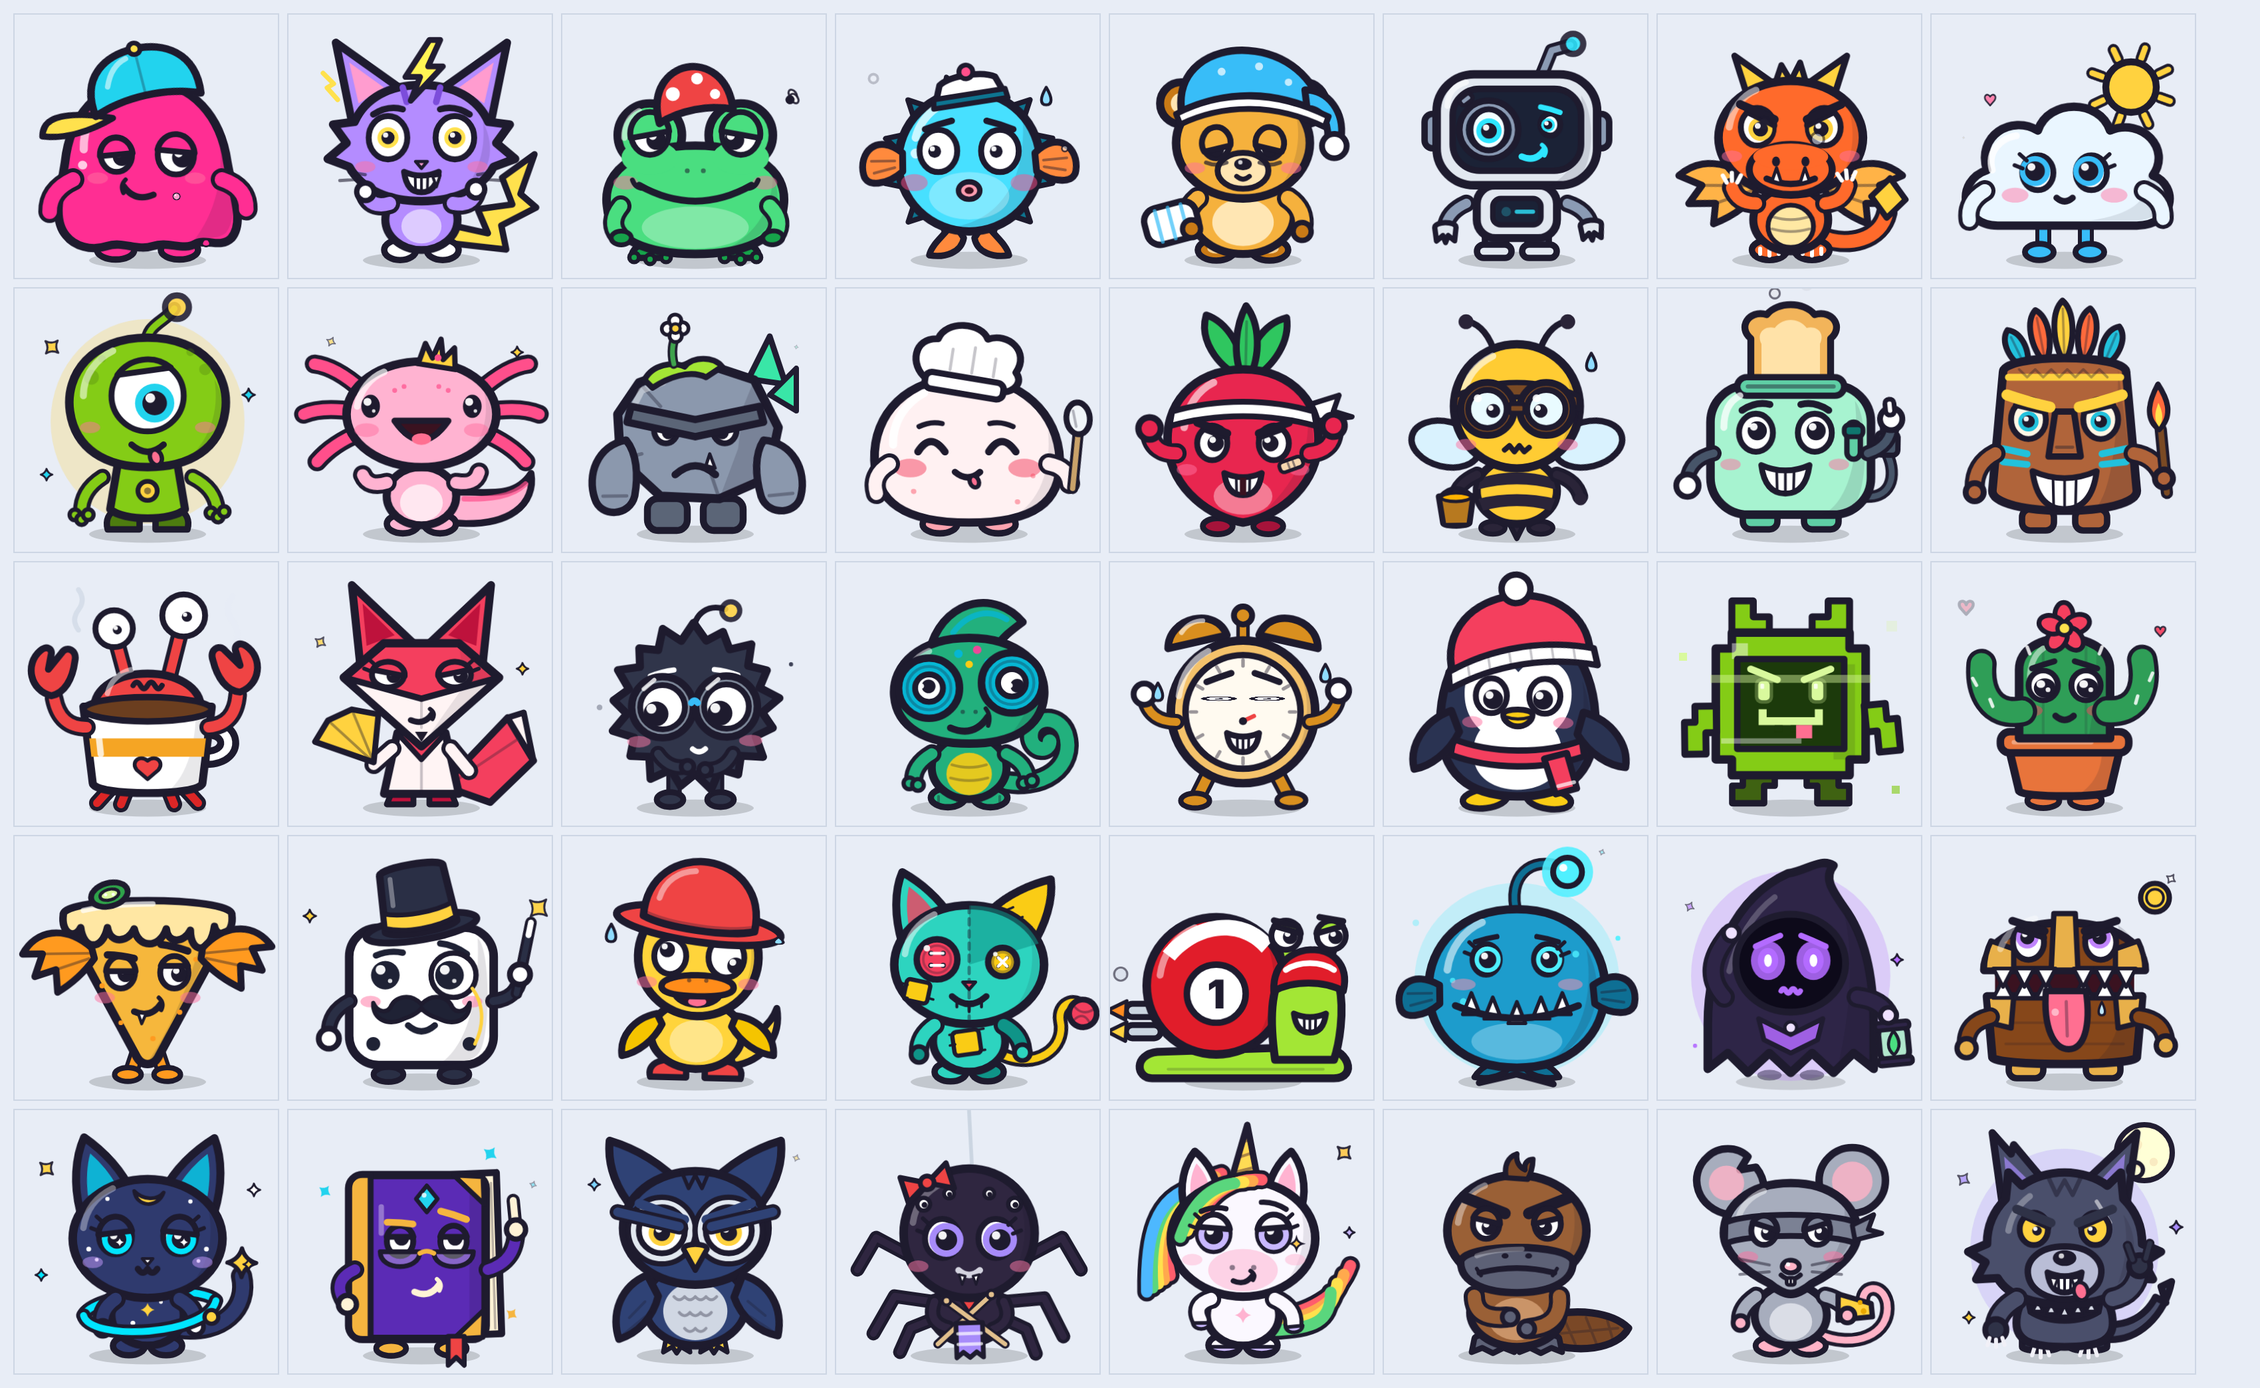
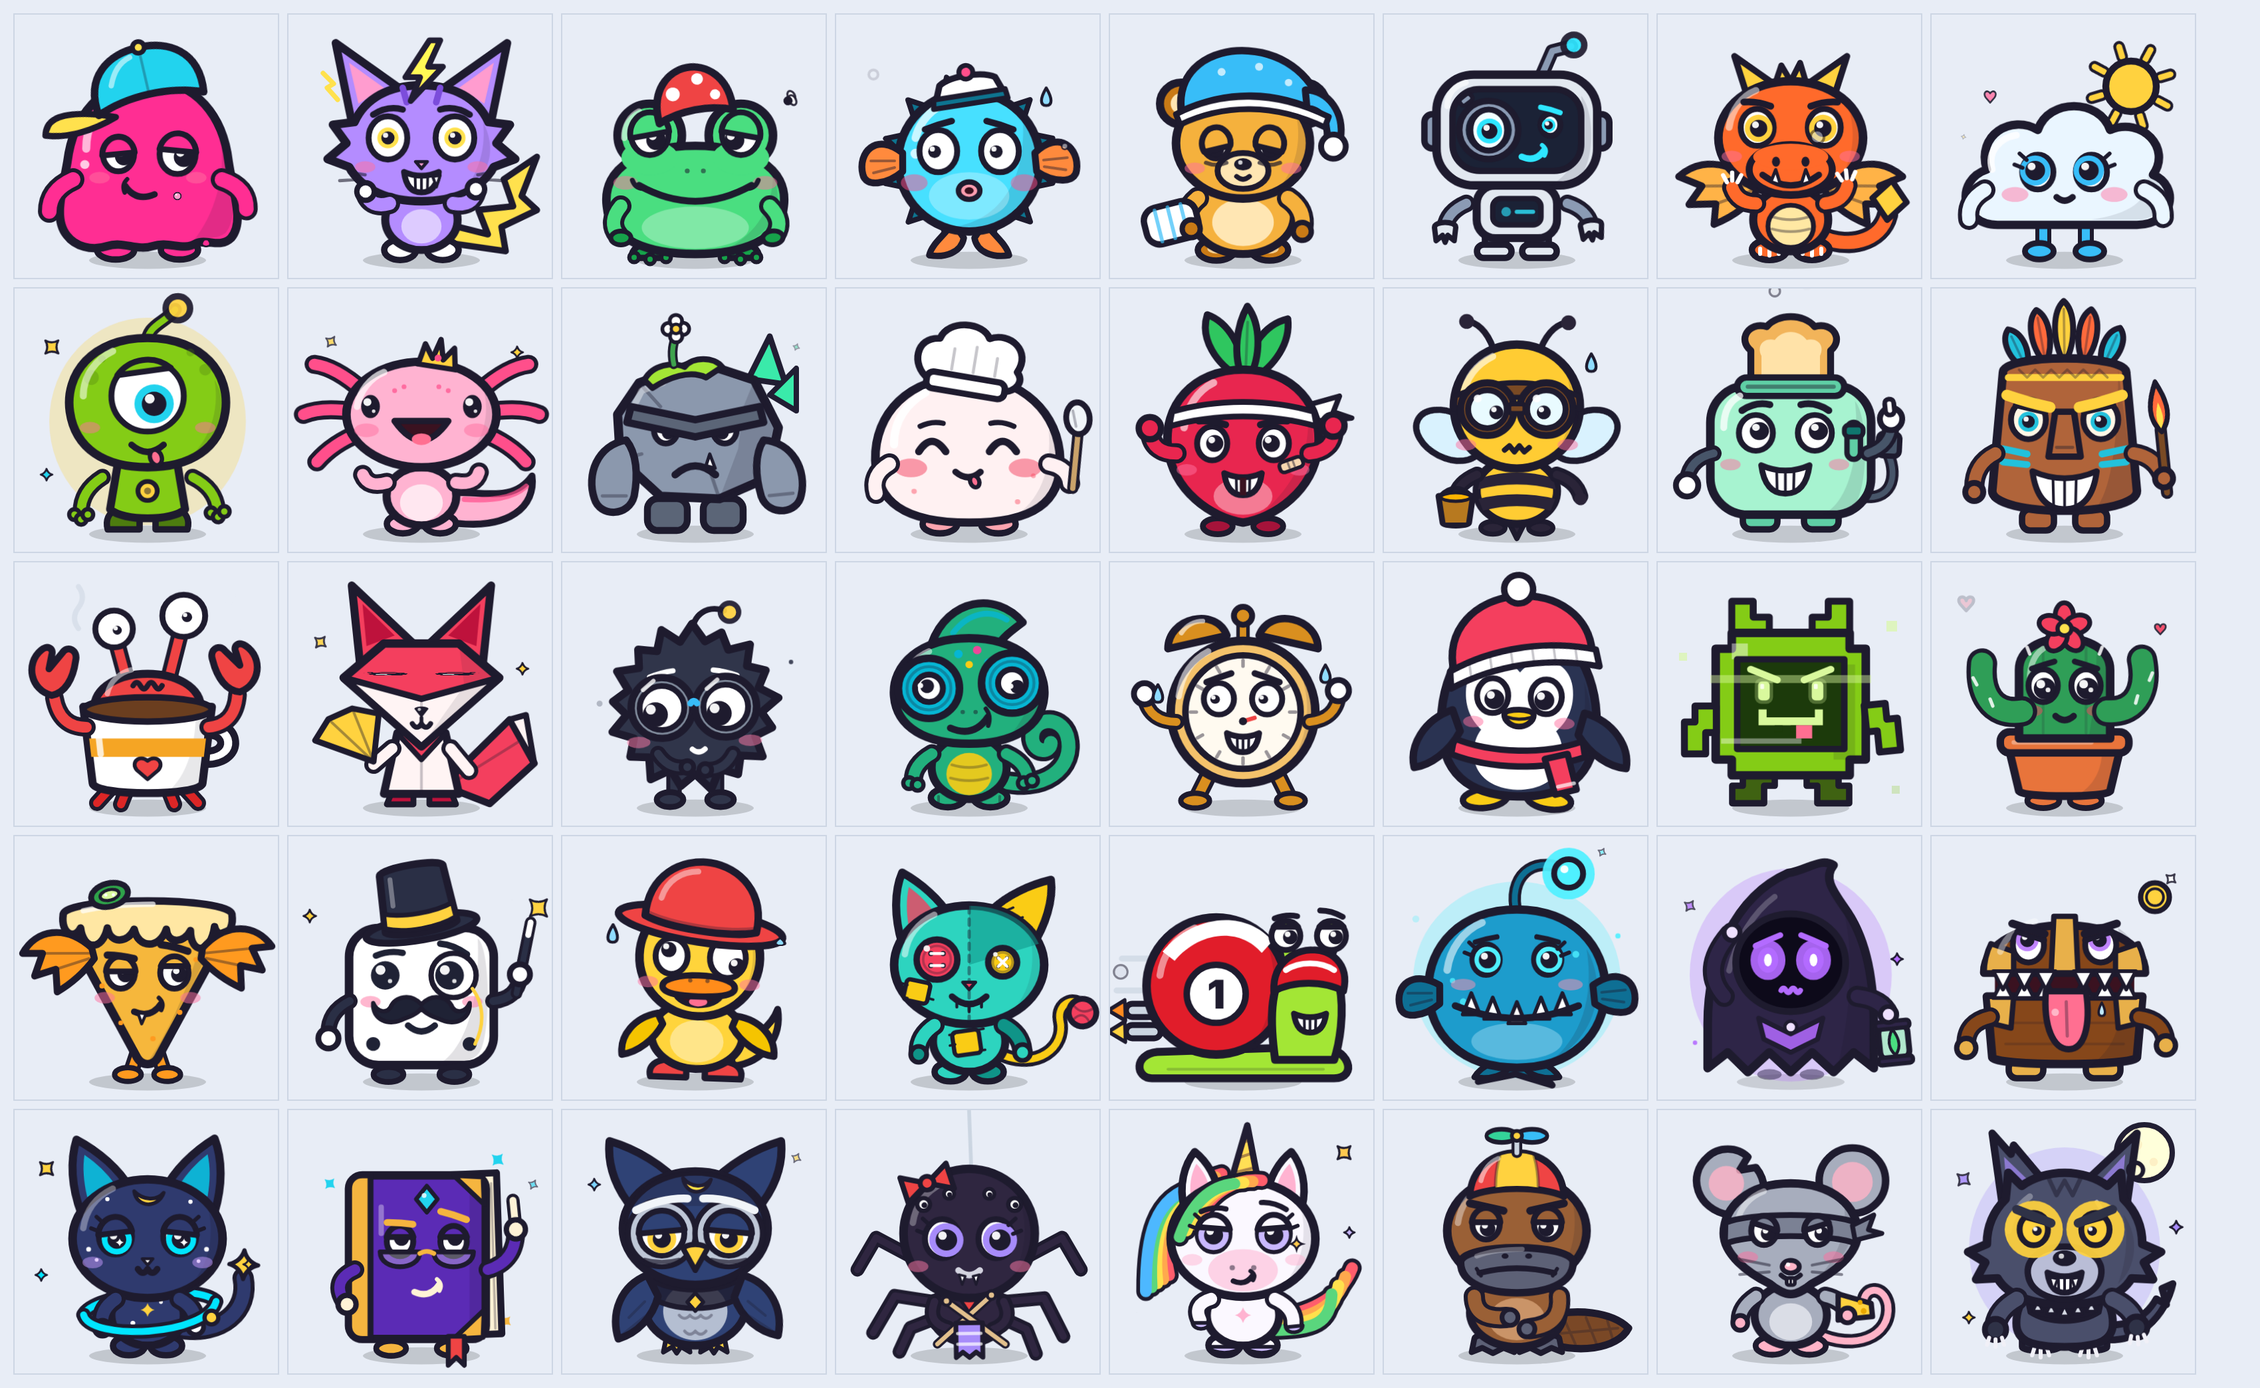
Wesen Fassung 3: Rückmeldung eingearbeitet
Chompy, Sprout und Turbo schauen freundlicher (keine schrägen Lider, weichere
Brauen). Mimi mit Nase und Katzenmund. Zephyr düster und weise statt streng
(schwere Lider, lange helle Brauen, Mondsichel, dunkler Kragen). Howl ohne
Handzeichen und Zunge, Augen glühen. Plato mit Propellermütze, Blick weicher.

Claude-Session: https://claude.ai/code/session_01SoWN1nY31SGRMZYCRPugZ3

diff --git a/MPSkills/tools/KnowledgeStack/wesen-neu/wesen-3.js b/MPSkills/tools/KnowledgeStack/wesen-neu/wesen-3.js
@@ -118,25 +118,27 @@
   const wing34 = 'M 32 62 C 22 66 18 76 21 86 C 28 84 34 78 36 70 Z';
   const beak34 = P('M 45.6 52 C 45.6 49.6 54.4 49.6 54.4 52 L 50 60 Z', c2, 2);
   W.add(34, {
-    typ: 'Die Strenge', spruch: 'Hat alles gesehen. Ist von wenig beeindruckt.',
+    typ: 'Die Weise', spruch: 'Schweigt lange. Sagt dann einen Satz, der sitzt.',
     vars: '--fx:var(--c2)',
     o: { al: [32, 64], ar: [68, 64], ll: [43, 86], lr: [57, 86], head: [50, 64] },
     legL: P('M 39 86 L 47 86 L 48 91 L 44.6 89 L 43 91.4 L 41.4 89 L 38 91 Z', c2, 1.8),
     legR: P(mirror('M 39 86 L 47 86 L 48 91 L 44.6 89 L 43 91.4 L 41.4 89 L 38 91 Z'), c2, 1.8),
     body: E(50, 73, 19, 15.5, c1, 3)
-      + G('fo', null, E(50, 75.5, 12, 11, c3, 0, 'opacity=".9"')
-        + L('M 42 70 q 2 2.4 4 0 q 2 2.4 4 0 q 2 2.4 4 0 q 2 2.4 4 0 M 44 76 q 2 2.4 4 0 q 2 2.4 4 0 q 2 2.4 4 0 M 46 82 q 2 2.4 4 0 q 2 2.4 4 0', INK, 1.1, 'opacity=".35"')),
+      + G('fo', null, E(50, 75.5, 12, 11, c3, 0, 'opacity=".75"')
+        + L('M 44 77 q 2 2.4 4 0 q 2 2.4 4 0 q 2 2.4 4 0 M 46 83 q 2 2.4 4 0 q 2 2.4 4 0', INK, 1.1, 'opacity=".35"')
+        + P('M 32.6 62.6 C 40 69 60 69 67.4 62.6 L 67 69.6 C 60 76 40 76 33 69.6 Z', '#1e1b2e', 2, 'fill-opacity=".8"') + P('M 50 68.6 L 53 72 L 50 75.4 L 47 72 Z', c2, 1.4)),
     head: G('ear-l', [30, 32], P(tuft34, c1, 3)) + G('ear-r', [70, 32], P(mirror(tuft34), c1, 3))
       + E(50, 44, 27, 21.5, c1, 3.2)
       + shade('M 72 34 C 80 44 77 58 64 64 C 72 57 75 46 72 34 Z', 0.18)
-      + G('fo', null, C(37.5, 45, 12.6, c3, 2) + C(62.5, 45, 12.6, c3, 2)
-        + P('M 45 23 L 47.5 29 L 50 24 L 52.5 29 L 55 23', 'none', 1.4))
-      + gesicht({ x: [37.5, 62.5], y: 45, r: 8.6, ex: 1, p: 0.36, iris: c2, lid: [0.34, 14], look: [0, 0.1], lookc: 'lk-slow',
-          brow: { dy: -1.4, a: 20, l: 8.4, w: 3.6, c: c1, k: -0.4 }, blush: false, mx: 50, my: 55,
+      + shade('M 23.6 42 C 25 29 37 22.6 50 22.6 C 63 22.6 75 29 76.4 42 C 68 33.5 32 33.5 23.6 42 Z', 0.26)
+      + G('fo', null, C(37.5, 46, 12.6, c3, 2, 'fill-opacity=".8"') + C(62.5, 46, 12.6, c3, 2, 'fill-opacity=".8"')
+        + P('M 45.4 25 C 46.4 31.8 54 31.8 55.8 25.6 C 53.4 28.8 48.6 28.8 45.4 25 Z', c2, 1.4, 'class="glow-soft"'))
+      + gesicht({ x: [37.5, 62.5], y: 46, r: 8.4, ex: 1, p: 0.4, iris: c2, lid: [0.46, -5], look: [0, 0.25], lookc: 'lk-slow', bags: INK,
+          brow: { dy: 2.6, a: -13, l: 9.6, w: 3, c: '#f1f5f9', k: 2.6 }, blush: false, mx: 50, my: 55,
           mouths: { normal: beak34, sleep: beak34, sad: beak34,
             open: P('M 46 55 L 54 55 L 50 62.5 Z', MOUTH, 1.6) + P('M 45.6 52 C 45.6 49.6 54.4 49.6 54.4 52 L 50 56.6 Z', c2, 2),
             wow: P('M 46 55 L 54 55 L 50 62.5 Z', MOUTH, 1.6) + P('M 45.6 52 C 45.6 49.6 54.4 49.6 54.4 52 L 50 56.6 Z', c2, 2) } })
-      + G('fo', null, L('M 21 38 L 44 43.5 M 79 38 L 56 43.5', INK, 6) + L('M 21 38 L 44 43.5 M 79 38 L 56 43.5', c1, 3.4)),
+,
     back: L('M 40 36 q 2.5 3 5 0 q 2.5 3 5 0 q 2.5 3 5 0 q 2.5 3 5 0 M 42 46 q 2.6 3 5.2 0 q 2.6 3 5.2 0 q 2.6 3 5.2 0', INK, 1.2, 'opacity=".3"'),
     armL: P(wing34, c1, 2.8) + L('M 25 78 L 31 72 M 23 84 L 33 76', INK, 1, 'opacity=".3"'),
     armR: P(mirror(wing34), c1, 2.8) + L(mirror('M 25 78 L 31 72 M 23 84 L 33 76'), INK, 1, 'opacity=".3"'),
@@ -206,7 +208,7 @@
     + shine('M 35 54.6 C 40 52.6 46 52 52 52', 1.8, 0.3)
     + E(45.6, 54.6, 1.3, 1, INK, 0) + E(54.4, 54.6, 1.3, 1, INK, 0) + mouth;
   W.add(37, {
-    typ: 'Der Miesepeter', spruch: 'Findet alles doof. Kommt trotzdem jedes Mal.',
+    typ: 'Der Miesepeter', spruch: 'Findet alles doof. Außer seine Propellermütze.',
     o: { al: [34, 70], ar: [66, 70], ll: [41, 86], lr: [59, 86], head: [50, 68] },
     behind: G('tail', [62, 82], P('M 60 78 C 72 74 86 76 92 82 C 88 90 72 92 60 87 Z', c4, 2.8)
       + L('M 68 79 L 72 88 M 76 78 L 80 88 M 84 79 L 86 86 M 66 84 L 88 82', INK, 1, 'opacity=".3"')),
@@ -216,10 +218,15 @@
     head: E(50, 45, 26, 21, c1, 3.2)
       + shade('M 71 35 C 78 45 75 58 63 64 C 70 57 73 46 71 35 Z', 0.14)
       + shine('M 28 42 C 29 35 33 30 38 28', 2.4, 0.4)
-      + P('M 46 25 C 45 20 47 17 50 16 C 49.6 19 51 21 53 22 C 52.6 19.6 54 18 56 18 C 56 21 55 24 54 25.6 Z', c4, 2)
-      + gesicht({ x: [38.5, 61.5], y: 42.5, r: 5.6, p: 0.5, lid: [0.4, 12], look: [[0.2, 0.25], [-0.2, 0.25]], lookc: 'lk-slow',
+      + G('hat', [50, 30], P('M 32.4 32 C 33 20.6 41.6 15.4 50 15.4 C 58.4 15.4 67 20.6 67.6 32 C 60 28 40 28 32.4 32 Z', '#ef4444', 2.6)
+        + P('M 43.6 16.6 C 46.6 15.2 53.4 15.2 56.4 16.6 C 57.6 20.6 58 24.6 58 28.6 C 53 27.8 47 27.8 42 28.6 C 42 24.6 42.4 20.6 43.6 16.6 Z', '#ffd23f', 0)
+        + L('M 43.6 16.6 C 42.4 20.6 42 24.6 42 28.6 M 56.4 16.6 C 57.6 20.6 58 24.6 58 28.6', INK, 1.2, 'opacity=".4"')
+        + shine('M 36.6 26 C 37.6 21.6 40 19 43 17.6', 1.8, 0.5)
+        + L('M 50 15.4 L 50 9.6', INK, 4) + L('M 50 15.4 L 50 9.6', '#cbd5e1', 1.8)
+        + G('q-prop', [50, 9], E(43, 9, 7, 2.5, '#38bdf8', 1.8) + E(57, 9, 7, 2.5, '#34d399', 1.8)) + C(50, 9, 1.9, '#ffd23f', 1.4))
+      + gesicht({ x: [38.5, 61.5], y: 42.5, r: 5.8, p: 0.5, lid: [0.44, 0], look: [[0.1, 0.3], [-0.1, 0.3]], lookc: 'lk-slow',
           blush: false, mx: 50, my: 60,
-          pre: G('brow', null, L('M 30.5 32.5 L 45.5 38.5 M 69.5 32.5 L 54.5 38.5', INK, 4.4)),
+          pre: G('brow', null, L('M 32.5 34.6 L 45 37.4 M 67.5 34.6 L 55 37.4', INK, 3)),
           mouths: { normal: bill37(L('M 36 61 Q 50 57.4 64 61', INK, 2.2) + L('M 35 59.4 L 36.6 62 M 65 59.4 L 63.4 62', INK, 1.4)),
             open: P('M 37 62 C 38 72 62 72 63 62 Z', MOUTH, 2.2) + E(50, 67.4, 5, 2.2, TONGUE, 0) + bill37(''),
             sad: bill37(L('M 37 62.4 Q 50 57 63 62.4', INK, 2.2)),
@@ -262,7 +269,7 @@
     + 'C 71 70 61 73 50 73 C 39 73 29 70 25 63 L 17 63.4 L 20.4 57 L 14 53 L 21 50 C 21 44 23 38 28 33 L 29 23 L 34 28 C 38 25 44 23 50 23 Z';
   const krallen = (x, y) => L('M ' + (x - 2.4) + ' ' + y + ' l -.8 2.6 M ' + x + ' ' + (y + 0.6) + ' l 0 2.8 M ' + (x + 2.4) + ' ' + y + ' l .8 2.6', '#f1f0f7', 1.5);
   W.add(39, {
-    typ: 'Der Rocker', spruch: 'Heult den Mond an. Trifft keinen einzigen Ton.',
+    typ: 'Der Heuler', spruch: 'Heult den Mond an. Trifft keinen einzigen Ton.',
     vars: '--fx:var(--c3)',
     o: { al: [32, 71], ar: [68, 71], ll: [41, 86], lr: [59, 86], head: [50, 72], zz: [8, 44], cl: [20, 12] },
     behind: E(50, 52, 35, 37, c3, 0, 'class="pulse"')
@@ -283,14 +290,14 @@
       + G('fo', null, P('M 50 51 C 60 51 64.6 56.6 63.6 62 C 62.6 68 56 71 50 71 C 44 71 37.4 68 36.4 62 C 35.4 56.6 40 51 50 51 Z', c6, 2.4)
         + E(50, 55.4, 4.4, 3, INK, 0) + hl(48.8, 54.6, 1, 0.8)
         + L('M 62 34 L 67 42', '#fff', 1.5, 'opacity=".55"'))
-      + gesicht({ x: [38.5, 61.5], y: 44.5, r: 6, sc: 'var(--c2)', p: 0.3, lid: [0.26, 22], look: [[0.2, 0.1], [-0.2, 0.1]], lookc: 'lk-lr',
+      + gesicht({ x: [38.5, 61.5], y: 44.5, r: 6, sc: 'var(--c2)', p: 0.3, lid: [0.2, 14], look: [[0.2, 0.1], [-0.2, 0.1]], lookc: 'lk-lr',
           brow: { dy: -1, a: 22, l: 6.4, w: 3.4, c: c5, k: 0 }, blush: false,
           m: 'grin', mx: 50, my: 62.4, mw: 6.4, teeth: true,
-          post: G('not-sad not-sleep', null, P('M 44.4 62.6 L 45.8 67.6 L 47.4 63.2 Z', '#fff', 1) + P('M 52.6 63.2 L 54.2 67.6 L 55.6 62.6 Z', '#fff', 1)
-            + E(55.6, 68, 2.6, 3.4, TONGUE, 1.4, 'transform="rotate(-14 55.6 66)"')) }),
+          post: G('not-sad not-sleep', null, P('M 44.4 62.6 L 45.8 67.6 L 47.4 63.2 Z', '#fff', 1) + P('M 52.6 63.2 L 54.2 67.6 L 55.6 62.6 Z', '#fff', 1)) ,
+          pre: G('eo', null, C(38.5, 44.5, 10, c2, 0, 'opacity=".4" class="glow"') + C(61.5, 44.5, 10, c2, 0, 'opacity=".4" class="glow"')) }),
     back: L('M 36 41 L 42 47 M 50 37 L 50 47 M 64 41 L 58 47', c5, 2, 'opacity=".6"'),
     armL: tube('M 32 71 Q 25 75 24 81', c1, 5.5) + C(24, 82.5, 4, c5, 2.2) + krallen(24, 85.6),
-    armR: tube('M 68 71 Q 77 70 79 61', c1, 5.5) + C(79.4, 59.6, 4, c5, 2.2) + L('M 77 57 L 75.6 51.6 M 82 57 L 84 51.6', INK, 3.6) + L('M 77 57 L 75.6 51.6 M 82 57 L 84 51.6', c5, 1.8),
+    armR: tube('M 68 71 Q 75 75 76 81', c1, 5.5) + C(76, 82.5, 4, c5, 2.2) + krallen(76, 85.6),
     fx: tw(12, 26, 3, c3, 0.2) + tw(92, 44, 2.4, c3, 1.1) + tw(14, 78, 2.2, c2, 1.7)
       + '<text class="note only-cheer" x="12" y="18" font-size="12">♪</text>'
   });

diff --git a/MPSkills/tools/KnowledgeStack/wesen-neu/wesen-0.js b/MPSkills/tools/KnowledgeStack/wesen-neu/wesen-0.js
@@ -183,7 +183,7 @@
   /* ── 6 Chompy · kleiner Drache ───────────────────────────── */
   const wing6 = 'M 37 64 C 28 52 17 51 9 56 L 17 61 L 11 67 L 21 68.5 L 19 76 C 28 74 35 70 37 66 Z';
   W.add(6, {
-    typ: 'Der Möchtegern-Gefährliche', spruch: 'ROOAAR! … War das gruselig? Bitte sag ja.',
+    typ: 'Der Möchtegern-Gefährliche', spruch: 'Rooaar! … War das gruselig? Ein bisschen?',
     vars: '--fx:var(--c3)',
     o: { al: [37, 71], ar: [63, 71], ll: [42, 86], lr: [58, 86], head: [50, 68] },
     behind: G('wing-l', [37, 65], P(wing6, c4, 2.6) + L('M 35 64 L 17 61 M 35 66 L 21 68.5', INK, 1.1, 'opacity=".4"'))
@@ -199,11 +199,11 @@
       + shine('M 27 42 C 28 35 32 30 37 28', 2.6, 0.5)
       + G('fo', null, E(50, 58, 15.5, 9.5, c1, 2.6) + E(50, 53.2, 14, 5, c1, 0)
         + E(44.5, 55, 1.5, 1.9, INK, 0) + E(55.5, 55, 1.5, 1.9, INK, 0))
-      + gesicht({ x: [37.5, 62.5], y: 42, r: 7, iris: c3, p: 0.4, lid: [0.26, 24], look: [[0.25, 0.1], [-0.25, 0.1]],
-          brow: { dy: -1.2, a: 24, l: 6.4, w: 3.2, k: 0 }, bx: [28, 72], by: 53,
+      + gesicht({ x: [37.5, 62.5], y: 42, r: 7, iris: c3, p: 0.46, look: [[0.2, 0.05], [-0.2, 0.05]], lookc: 'lk-lr',
+          brow: { dy: 1.8, a: 9, l: 5, w: 2.6, k: 1.2 }, bx: [28, 72], by: 53,
           mx: 50, my: 61.5, mw: 7, teeth: true,
-          mouths: { normal: L('M 41 61.5 Q 50 65.5 59 61.5', INK, 2.4)
-            + P('M 43 62.4 L 44.7 57.4 L 46.6 63.4 Z', '#fff', 1.2) + P('M 53.4 63.4 L 55.3 57.4 L 57 62.4 Z', '#fff', 1.2) } }),
+          mouths: { normal: L('M 39.5 60 Q 50 68 60.5 60', INK, 2.4)
+            + P('M 42.6 62.6 L 44.4 58 L 46.2 63.8 Z', '#fff', 1.2) + P('M 53.8 63.8 L 55.6 58 L 57.4 62.6 Z', '#fff', 1.2) } }),
     back: P('M 46 36 L 50 30 L 54 36 Z M 46 46 L 50 40 L 54 46 Z M 46 56 L 50 50 L 54 56 Z', c3, 1.6),
     armL: tube('M 37 71 Q 30 71 28 65', c1, 4.6) + L('M 26 63 l -1.4 -2.6 M 28 62.4 l 0 -3 M 30 63 l 1.4 -2.6', '#fff', 1.6),
     armR: tube('M 63 71 Q 70 71 72 65', c1, 4.6) + L('M 70 63 l -1.4 -2.6 M 72 62.4 l 0 -3 M 74 63 l 1.4 -2.6', '#fff', 1.6),

diff --git a/MPSkills/tools/KnowledgeStack/wesen-neu/wesen-1.js b/MPSkills/tools/KnowledgeStack/wesen-neu/wesen-1.js
@@ -69,8 +69,8 @@
       + E(50, 78, 11, 7, c2, 0, 'opacity=".5" class="fo"')
       + shine('M 28 52 C 29 44 33 38 39 35', 2.8, 0.6)
       + G('fo', null, P('M 23.5 46 C 40 41 60 41 76.5 46 L 77.5 51.5 C 60 46.5 40 46.5 22.5 51.5 Z', '#fff', 2.2))
-      + gesicht({ x: [38.5, 61.5], y: 58, r: 6.4, p: 0.48, lid: [0.2, 18], look: [[0.2, 0], [-0.2, 0]],
-          brow: { dy: -0.6, a: 20, l: 5.6, w: 3, k: 0 }, bx: [29, 71], by: 68,
+      + gesicht({ x: [38.5, 61.5], y: 58, r: 6.4, p: 0.5, look: [[0.15, 0], [-0.15, 0]], lookc: 'lk-lr',
+          brow: { dy: 1.4, a: 8, l: 5, w: 2.6, k: 1 }, bx: [29, 71], by: 68,
           m: 'grin', mx: 50, my: 71, mw: 7, teeth: true,
           extra: '<g transform="rotate(-20 68 66)">' + R(63.5, 64, 9, 4, 1.6, '#f6d7b0', 1.4) + L('M 67 65 L 67 67 M 69 65 L 69 67', INK, 0.8, 'opacity=".5"') + '</g>',
           post: R(48.8, 71, 2.4, 6.6, 0, MOUTH, 0) }),
@@ -198,8 +198,8 @@
       + G('fo', null, P('M 21 43 L 50 51 L 79 43 L 50 69 Z', c1, 2.4) + L('M 50 51 L 50 62', INK, 1, 'opacity=".2"'))
       + shade('M 64 30 L 79 43 L 50 69 L 66 46 Z', 0.1)
       + gesicht({ x: [37.5, 62.5], y: 42, r: 4.8, ex: 1.25, p: 0.56, lid: [0.42, 14], lidc: c2, lash: true, look: [[0.45, 0.1], [0.45, 0.1]], lookc: 'lk-slow',
-          blush: false, m: 'smirk', ms: 1, mx: 50, my: 58.5, mw: 4, mlw: 2.2,
-          post: P('M 47.6 63.5 L 52.4 63.5 L 50 67.5 Z', INK, 0) }),
+          blush: false, m: 'cat', mx: 50, my: 60.4, mw: 3.4, mlw: 1.9,
+          extra: P('M 47.4 54.8 C 47.4 53.6 52.6 53.6 52.6 54.8 L 50 58.2 Z', INK, 0) + hl(49.2, 55, 0.6, 0.7) + L('M 50 58.2 L 50 60.4', INK, 1.4) }),
     back: L('M 36 30 L 50 69 L 64 30', INK, 1.2, 'opacity=".3"'),
     armL: tube('M 39 70 L 32 76', c1, 4)
       + G('q-bob', null, P(mirror('M 68 76 L 66 58 L 76 56 L 85 60 L 90 68 Z'), c4, 2.2) + L(mirror('M 68 76 L 76 56 M 68 76 L 85 60'), INK, 1, 'opacity=".4"')),

diff --git a/MPSkills/tools/KnowledgeStack/wesen-neu/wesen.css b/MPSkills/tools/KnowledgeStack/wesen-neu/wesen.css
@@ -13,6 +13,10 @@
 .state-sleep .only-sleep, .state-cheer .only-cheer, .state-sad .only-sad { display: inline; }
 .state-sleep .not-sleep, .state-sad .not-sad, .state-cheer .not-cheer { display: none; }
 
+/* .eo = nur zu sehen, solange die Augen offen sind (Glühen um die Augen) */
+.state-jump .eo, .state-cheer .eo, .state-dance .eo, .state-sleep .eo,
+.state-sad .eo, .state-clap .eo, .state-fall .eo { display: none; }
+
 /* Brauen gehören zu den offenen Augen */
 .state-jump .brw, .state-cheer .brw, .state-dance .brw, .state-sleep .brw,
 .state-sad .brw, .state-clap .brw { display: none; }
@@ -145,6 +149,12 @@
   90% { transform: translateX(2.5px); }
   94% { transform: translateX(-1px); }
 }
+
+/* Propeller, von der Seite gesehen */
+.creature-svg .q-prop { animation: w3-prop .7s linear infinite; }
+.state-cheer .q-prop, .state-jump .q-prop, .state-dance .q-prop { animation-duration: .18s; }
+.state-sleep .q-prop, .state-sad .q-prop { animation-duration: 3s; }
+@keyframes w3-prop { 0%, 100% { transform: scaleX(1); } 50% { transform: scaleX(-1); } }
 
 @media (prefers-reduced-motion: reduce) {
   .creature-svg .pp, .creature-svg [class*="q-"] { animation: none !important; }

diff --git a/MPSkills/tools/KnowledgeStack/wesen-neu/wesen-2.js b/MPSkills/tools/KnowledgeStack/wesen-neu/wesen-2.js
@@ -237,9 +237,9 @@
     head: P('M 62 84 C 60 70 60 56 66 50 C 72 44 84 46 86 56 C 88 66 86 78 84 84 Z', c1, 3)
       + tube('M 68 49 L 66 40', c1, 3) + tube('M 80 49 L 83 40', c1, 3)
       + G('fo', null, P('M 61.5 58 C 61 46 71 42 76 42.4 C 82 42 90 47 87.5 58 C 80 54 69 54 61.5 58 Z', c2, 2.6) + L('M 66 50 C 71 46.6 79 46.6 84 50', c3, 2.2))
-      + gesicht({ x: [66, 83], y: [37, 37], r: 5.4, ex: 1, p: 0.5, lid: [[0.3, 16], [0.3, 16]], lidc: c1, look: [[0.3, 0.1], [0.3, 0.1]], lookc: 'lk-slow',
+      + gesicht({ x: [66, 83], y: [37, 37], r: 5.4, ex: 1, p: 0.5, lid: [[0.2, 0], [0.2, 0]], lidc: c1, look: [[0.3, 0.1], [0.3, 0.1]], lookc: 'lk-slow',
           blush: false, m: 'grin', mx: 75, my: 68, mw: 6, teeth: true,
-          brow: { dy: -0.8, a: [14, -10], l: 4.4, w: 2.4, k: 0, up: [0, -1.6] } }),
+          brow: { dy: 1.6, a: [-6, -16], l: 4.2, w: 2.2, k: 1.2, up: [0, -1.4] } }),
     back: L('M 68 56 Q 74 60 80 56', INK, 1.2, 'opacity=".25"'),
     armL: '', armR: '',
     fx: C(4, 56, 2.6, '#d5dbe6', 0.8, 'class="steam"')
